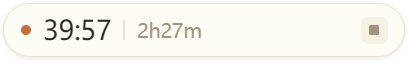
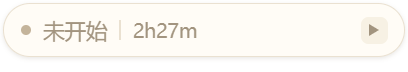
0.3.1：浮窗播放按钮一键开始 + 休息倒计时显示 + 手动停止静默 + 补记重叠校验

Changed region(s): [[0.0294, 0.25, 0.5, 0.5833], [0.8824, 0.3333, 0.9412, 0.5]]

diff --git a/src/renderer/float/float.js b/src/renderer/float/float.js
@@ -7,6 +7,7 @@ const dot = $('dot')
 const clock = $('clock')
 const today = $('today')
 const stopBtn = $('stopBtn')
+const playBtn = $('playBtn')
 
 let prevRunning = false
 let flash = null
@@ -40,6 +41,13 @@ function fmtMinSec(ms) {
   return `${Math.floor(total / 60)}:${pad(total % 60)}`
 }
 
+function fmtRest(ms) {
+  const total = Math.max(0, Math.round(ms / 1000))
+  const m = Math.floor(total / 60)
+  const s = total % 60
+  return m > 0 ? `${m}分${pad(s)}秒` : `${s}秒`
+}
+
 function applySettings(s) {
   if (!s) return
   document.documentElement.dataset.theme = s.theme === 'dark' ? 'dark' : 'light'
@@ -56,6 +64,7 @@ function render(s) {
     clock.className = 'clock num warn'
     clock.textContent = flash.text
     stopBtn.hidden = true
+    playBtn.hidden = true
     return
   }
   flash = null
@@ -64,6 +73,7 @@ function render(s) {
     clock.className = 'clock num'
     clock.textContent = fmtClock(s.remainingMs)
     stopBtn.hidden = false
+    playBtn.hidden = true
     if (s.idleMs >= 60000) {
       dot.className = 'dot warn'
       clock.classList.add('warn')
@@ -74,10 +84,19 @@ function render(s) {
       dot.className = 'dot run'
     }
   } else {
-    clock.className = 'clock num idle-text'
-    clock.textContent = '未开始'
     stopBtn.hidden = true
-    dot.className = s.canStart ? 'dot' : 'dot warn'
+    if (s.canStart) {
+      playBtn.hidden = false
+      playBtn.title = `开始学习 ${fmtDurMin(s.maxStudyMs)}`
+      clock.className = 'clock num idle-text'
+      clock.textContent = '未开始'
+      dot.className = 'dot'
+    } else {
+      playBtn.hidden = true
+      clock.className = 'clock num idle-text warn'
+      clock.textContent = `休息 ${fmtRest(s.restWaitMs)}`
+      dot.className = 'dot warn'
+    }
   }
 
   if (prevRunning && !s.running && !flash) {
@@ -87,6 +106,11 @@ function render(s) {
     clock.textContent = flash.text
   }
   prevRunning = s.running
+}
+
+function fmtDurMin(ms) {
+  const min = Math.max(1, Math.ceil(ms / 60000))
+  return `${min} 分钟`
 }
 
 /* ---------- 拖动 / 点击 ---------- */
@@ -134,6 +158,15 @@ stopBtn.addEventListener('mousedown', (e) => e.stopPropagation())
 stopBtn.addEventListener('click', async (e) => {
   e.stopPropagation()
   await window.api.stop()
+})
+
+playBtn.addEventListener('mousedown', (e) => e.stopPropagation())
+playBtn.addEventListener('click', async (e) => {
+  e.stopPropagation()
+  const res = await window.api.quickStart()
+  if (res && !res.ok) {
+    flash = { text: '还需休息', until: Date.now() + 2600 }
+  }
 })
 
 /* ---------- 启动 ---------- */

diff --git a/src/renderer/panel/panel.js b/src/renderer/panel/panel.js
@@ -133,7 +133,7 @@ function renderState() {
     el.stateChip.textContent = idleWarn ? `无操作 ${Math.floor(state.idleMs / 1000)} 秒` : '计时中'
     el.stateChip.className = 'chip ' + (idleWarn ? 'warn' : 'running')
   } else if (!state.canStart) {
-    el.stateChip.textContent = '需休息'
+    el.stateChip.textContent = `休息 ${fmtMinSec(state.restWaitMs)}`
     el.stateChip.className = 'chip warn'
   } else {
     el.stateChip.textContent = '未开始'
@@ -154,7 +154,7 @@ function renderState() {
     el.restHint.textContent = `还需休息 ${fmtMinSec(state.restWaitMs)} 才能开始`
     el.restHint.className = 'rest-hint warn'
   } else {
-    el.restHint.textContent = `还能学 ${fmtDur(state.maxStudyMs)}，之后必须休息`
+    el.restHint.textContent = `可一次学 ${fmtDur(state.maxStudyMs)}，之后必须休息`
     el.restHint.className = 'rest-hint warn'
   }
 
@@ -171,7 +171,7 @@ function renderState() {
       el.mainBtn.textContent = '开始学习'
       el.mainBtn.disabled = false
     } else {
-      el.mainBtn.textContent = `还需休息 ${fmtMinSec(state.restWaitMs)}`
+      el.mainBtn.textContent = `休息 ${fmtMinSec(state.restWaitMs)}`
       el.mainBtn.disabled = true
     }
   }
@@ -329,7 +329,12 @@ el.manualSave.addEventListener('click', async () => {
 
   const res = await window.api.addManual({ startTs, endTs, note: el.manualNote.value.trim() })
   if (!res.ok) {
-    el.manualMsg.textContent = res.error === 'tooShort' ? '至少 1 分钟' : '时间不合法'
+    const msgs = {
+      tooShort: '至少 1 分钟',
+      range: '时间不合法',
+      overlap: '与已有记录时间重叠'
+    }
+    el.manualMsg.textContent = msgs[res.error] || '保存失败'
     el.manualMsg.className = 'form-msg err'
     return
   }

diff --git a/test/tracker.test.js b/test/tracker.test.js
@@ -180,6 +180,28 @@ test('跨零点时今日时长只算当天部分', () => {
   assert.strictEqual(Math.round(snap.todayMs / 1000), 1800, '今天只应算零点后的 30 分钟')
 })
 
+/* 7. 记录时间不允许重叠 */
+test('补记与已有记录时间重叠：拒绝写入', () => {
+  const env = makeEnv()
+  env.store.addRecord({
+    id: 'x3',
+    startTs: T0,
+    endTs: T0 + 1800 * 1000,
+    dayStartTs: new Date(T0).setHours(0, 0, 0, 0),
+    seconds: 1800,
+    segments: [[T0, T0 + 1800 * 1000]],
+    targetSec: 0,
+    source: 'manual',
+    status: 'active',
+    endReason: 'manual'
+  })
+  assert.strictEqual(env.store.hasOverlap(T0 + 600 * 1000, T0 + 1200 * 1000), true, '完全落在已有段内')
+  assert.strictEqual(env.store.hasOverlap(T0 + 1700 * 1000, T0 + 2300 * 1000), true, '半重叠')
+  assert.strictEqual(env.store.hasOverlap(T0 + 1800 * 1000, T0 + 2400 * 1000), false, '首尾相接不算重叠')
+  assert.strictEqual(env.store.hasOverlap(T0 - 600 * 1000, T0 - 1000), false, '之前时段不重叠')
+  assert.strictEqual(env.store.hasOverlap(T0, T0 + 600 * 1000, 'x3'), false, '排除自身后不算重叠')
+})
+
 console.log('')
 for (const [status, name] of results) {
   console.log(`${status === 'PASS' ? '✓' : '✗'} ${name}`)

diff --git a/src/main/index.js b/src/main/index.js
@@ -367,6 +367,15 @@ function registerIpc() {
     return res
   })
 
+  ipcMain.handle('session:quick-start', () => {
+    const pre = tracker.canStart()
+    if (!pre.ok) return pre
+    const min = Math.max(1, Math.ceil(pre.maxStudyMs / 60000))
+    const res = tracker.begin(min)
+    broadcastState()
+    return res
+  })
+
   ipcMain.handle('session:stop', () => {
     const rec = tracker.stop('manual')
     broadcastState()
@@ -404,6 +413,7 @@ function registerIpc() {
     if (!(endTs > startTs)) return { ok: false, error: 'range' }
     const seconds = Math.round((endTs - startTs) / 1000)
     if (seconds < 60) return { ok: false, error: 'tooShort' }
+    if (store.hasOverlap(startTs, endTs)) return { ok: false, error: 'overlap' }
     const rec = {
       id: `m${Date.now().toString(36)}${Math.random().toString(36).slice(2, 6)}`,
       startTs,
@@ -493,7 +503,8 @@ if (!gotLock) {
 
     tracker.on('ended', ({ record, reason }) => {
       refreshTray()
-      if (reason === 'lock' || reason === 'sleep' || reason === 'crash') {
+      /* 手动停止不弹窗不响铃，静默结束 */
+      if (reason === 'lock' || reason === 'sleep' || reason === 'crash' || reason === 'manual') {
         broadcastState()
         return
       }

diff --git a/src/main/store.js b/src/main/store.js
@@ -64,6 +64,19 @@ class Store {
     this.data.records.push(record)
   }
 
+  /** 与现有 active 记录的段是否有时间重叠（排除 excludeId 自身） */
+  hasOverlap(startTs, endTs, excludeId = null) {
+    for (const rec of this.data.records) {
+      if (rec.status !== 'active') continue
+      if (excludeId && rec.id === excludeId) continue
+      const segs = Array.isArray(rec.segments) && rec.segments.length ? rec.segments : [[rec.startTs, rec.endTs]]
+      for (const [a, b] of segs) {
+        if (Math.max(a, startTs) < Math.min(b, endTs)) return true
+      }
+    }
+    return false
+  }
+
   updateRecord(id, patch) {
     const rec = this.data.records.find((r) => r.id === id)
     if (rec) Object.assign(rec, patch)

diff --git a/src/renderer/float/index.html b/src/renderer/float/index.html
@@ -13,6 +13,9 @@
     <span class="clock num" id="clock" data-u32-name="clock">未开始</span>
     <span class="sep" data-u32-name="sep"></span>
     <span class="today num" id="today" data-u32-name="today">0m</span>
+    <button class="stop-btn play-btn" id="playBtn" data-u32-name="play-btn" title="开始学习" hidden>
+      <span class="play-icon"></span>
+    </button>
     <button class="stop-btn" id="stopBtn" data-u32-name="stop-btn" title="停止本次" hidden>
       <span class="stop-icon"></span>
     </button>

diff --git a/src/preload/float.js b/src/preload/float.js
@@ -6,6 +6,7 @@ contextBridge.exposeInMainWorld('api', {
   getState: () => ipcRenderer.invoke('state:get'),
   onState: (cb) => ipcRenderer.on('state', (_e, s) => cb(s)),
   start: (min) => ipcRenderer.invoke('session:start', min),
+  quickStart: () => ipcRenderer.invoke('session:quick-start'),
   stop: () => ipcRenderer.invoke('session:stop'),
   openPanel: () => ipcRenderer.invoke('panel:open'),
   hidePanel: () => ipcRenderer.invoke('panel:hide'),

diff --git a/src/preload/panel.js b/src/preload/panel.js
@@ -6,6 +6,7 @@ contextBridge.exposeInMainWorld('api', {
   getState: () => ipcRenderer.invoke('state:get'),
   onState: (cb) => ipcRenderer.on('state', (_e, s) => cb(s)),
   start: (min) => ipcRenderer.invoke('session:start', min),
+  quickStart: () => ipcRenderer.invoke('session:quick-start'),
   stop: () => ipcRenderer.invoke('session:stop'),
   openPanel: () => ipcRenderer.invoke('panel:open'),
   hidePanel: () => ipcRenderer.invoke('panel:hide'),

diff --git a/src/renderer/float/float.css b/src/renderer/float/float.css
@@ -74,6 +74,23 @@ body.dragging .capsule {
   white-space: nowrap;
 }
 
+.play-btn {
+  margin-left: auto;
+}
+
+.play-btn .play-icon {
+  width: 0;
+  height: 0;
+  border-style: solid;
+  border-width: 4px 0 4px 7px;
+  border-color: transparent transparent transparent var(--text-3);
+  display: block;
+}
+
+.play-btn:hover .play-icon {
+  border-left-color: var(--accent);
+}
+
 .stop-btn {
   margin-left: auto;
   width: 18px;
